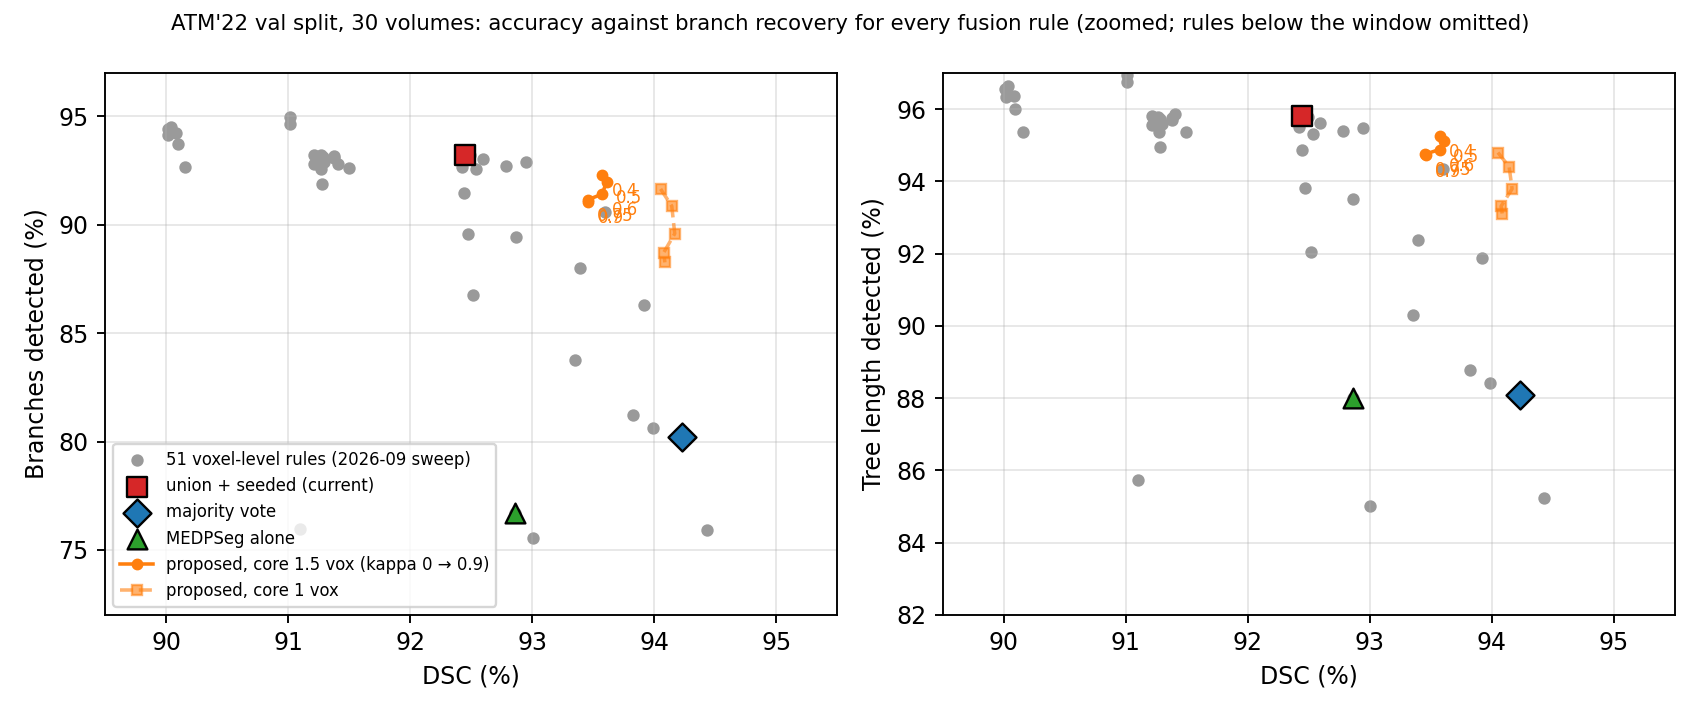
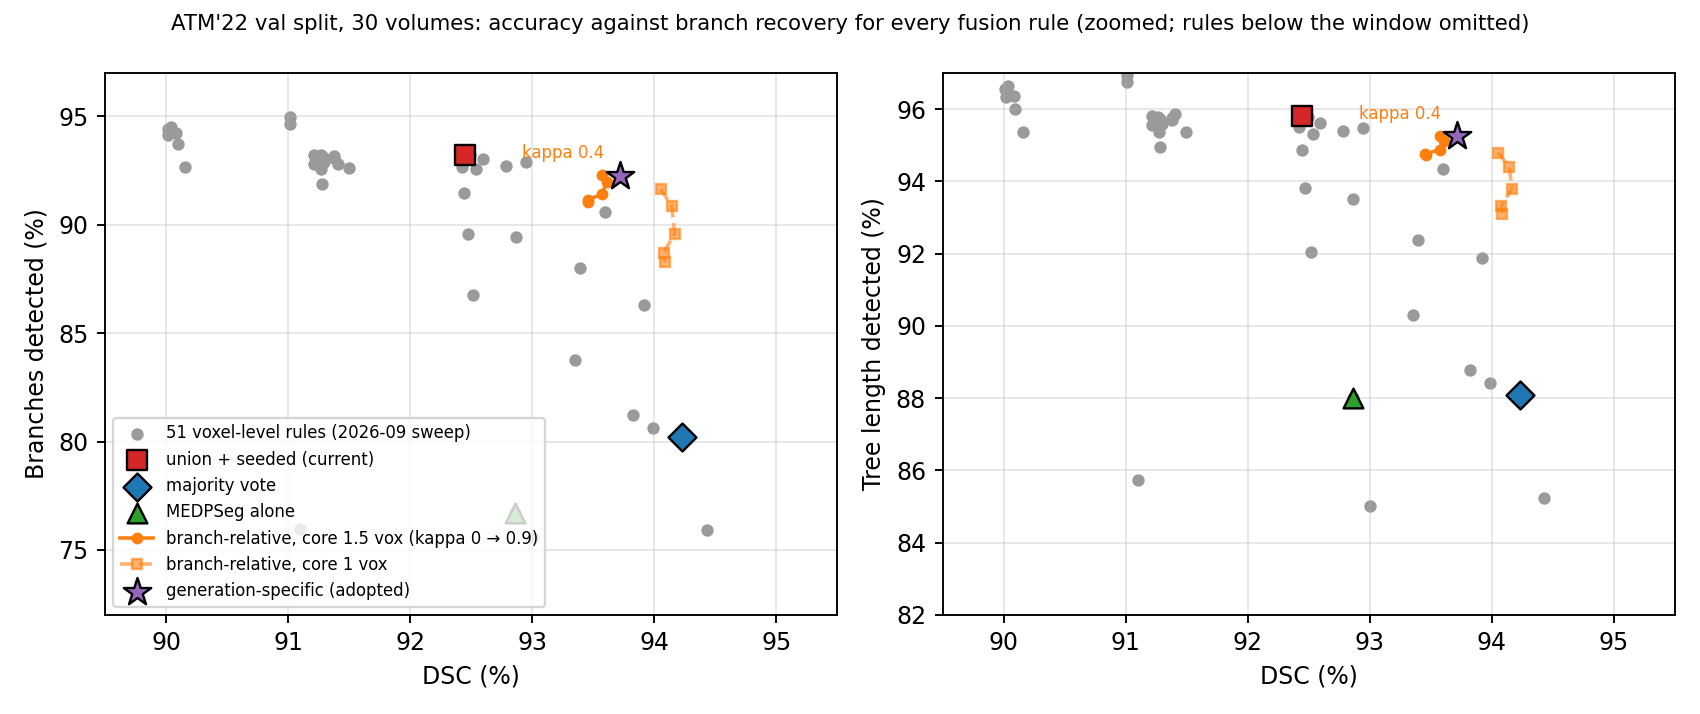
Figures: redraw uncertainty figures for the generation-specific rule
- Confidence panels (c,g) now show the generation-specific masks
  (adult Dice 93.3, infant 85.4); caption updated (removes 2/5 of FP).
- Frontier: adds the adopted rule as a star; the kappa curve is drawn
  with leaf pruning off (--prune-tau 0), matching the tables (kappa 0.4
  = 94.04/91.33); the old figure used tau 0.5.
- Architecture: "branch-relative consensus" box replaced by the
  generation-banded rule.

Changed region(s): [[0.0624, 0.5854, 0.3429, 0.8627], [0.3118, 0.1849, 0.3741, 0.3081], [0.8106, 0.1541, 0.8729, 0.2465]]

diff --git a/evaluation/fusion_uncertainty/fig_frontier.py b/evaluation/fusion_uncertainty/fig_frontier.py
@@ -1,10 +1,14 @@
 #!/usr/bin/env python
 """DSC against branch detection for every combination rule: the 51 voxel rules
-of the earlier sweep (grey) and the proposed fusion along its kappa curve
-(coloured), on one split. A rule above and to the right of another is better
+of the earlier sweep (grey), the branch-relative refinement along its kappa
+curve (orange) and, with --genspec, the adopted generation-specific rule
+(per-case CSV of ablation/generation_specific), on one split. A rule above and to the right of another is better
 on both axes.
 
-    python fig_frontier.py --split val --refine results/refine_val.csv --out fig_frontier_val.png
+    python fig_frontier.py --split test --refine results/refine_test.csv \
+        --genspec ablation/generation_specific/percase_test_B3_core.csv --out 07_frontier.pdf
+
+Leaf pruning is off by default (--prune-tau 0), as in the paper tables.
 """
 import argparse, os
 
@@ -21,8 +25,9 @@ def main():
     ap.add_argument("--split", required=True)
     ap.add_argument("--refine", required=True)
     ap.add_argument("--scheme", default="calibrated")
-    ap.add_argument("--prune-tau", type=float, default=0.5)
+    ap.add_argument("--prune-tau", type=float, default=0.0)
     ap.add_argument("--core-min-vox", type=float, default=1.5)
+    ap.add_argument("--genspec", help="per-case CSV of the generation-specific rule on this split")
     ap.add_argument("--out", required=True)
     a = ap.parse_args()
 
@@ -31,6 +36,7 @@ def main():
     new = pd.read_csv(a.refine)
     ng = new.groupby(["scheme", "prune_tau", "kappa", "core_min_vox"])[["DSC", "BND", "TLD", "Precision"]].mean().reset_index()
     base = ng[ng.scheme == "none"].iloc[0]
+    gs = pd.read_csv(a.genspec)[["DSC", "BND", "TLD", "Precision"]].mean() if a.genspec else None
 
     def curve(core):
         sel = ng[(ng.scheme == a.scheme) & (ng.prune_tau == a.prune_tau) & ((ng.core_min_vox == core) | (ng.kappa == 0))]
@@ -43,14 +49,17 @@ def main():
             if name in og.index:
                 ax.scatter(og.loc[name, "DSC"], og.loc[name, ykey], s=70, marker=mk, c=col, edgecolor="k", zorder=5,
                            label={"or_all3": "union + seeded (current)", "vote2of3": "majority vote", "solo_medpseg": "MEDPSeg alone"}[name])
-        for core, style, lab in ((a.core_min_vox, "-o", f"proposed, core {a.core_min_vox:g} vox (kappa 0 → 0.9)"),
-                                 (1.0, "--s", "proposed, core 1 vox")):
+        for core, style, lab in ((a.core_min_vox, "-o", f"branch-relative, core {a.core_min_vox:g} vox (kappa 0 → 0.9)"),
+                                 (1.0, "--s", "branch-relative, core 1 vox")):
             cv = curve(core)
             ax.plot(cv.DSC, cv[ykey], style, c="#ff7f0e", ms=4, zorder=6, label=lab, alpha=1 if style == "-o" else 0.6)
             if style == "-o":
                 for _, r in cv.iterrows():
-                    if r.kappa > 0:
-                        ax.annotate(f"{r.kappa:g}", (r.DSC, r[ykey]), textcoords="offset points", xytext=(4, -9), fontsize=7, color="#ff7f0e")
+                    if abs(r.kappa - 0.4) < 1e-9:
+                        ax.annotate("kappa 0.4", (r.DSC, r[ykey]), textcoords="offset points", xytext=(-34, 7), fontsize=7, color="#ff7f0e")
+        if gs is not None:
+            ax.scatter(gs.DSC, gs[ykey], s=150, marker="*", c="#9467bd", edgecolor="k", zorder=7,
+                       label="generation-specific (adopted)")
         ax.set_xlabel("DSC (%)"); ax.set_ylabel(ylabel); ax.grid(alpha=0.3)
         ax.set_xlim(89.5, 95.5); ax.set_ylim(72 if ykey == "BND" else 82, 97)
     axes[0].legend(fontsize=7, loc="lower left")

diff --git a/paper/airway_method_paper.tex b/paper/airway_method_paper.tex
@@ -331,10 +331,8 @@ measurably, and is off by default.
 Figure~\ref{fig:arch} is unchanged; the seven predictors behind it mark every
 fused voxel with one of 24 vote patterns, the pattern's precision on the
 validation split is the voxel's confidence, and the confidence is shown as it
-is, summarised per branch, and optionally used to trim the mask. The trimming
-block shows the earlier branch-relative rule. The adopted rule keeps the same
-inputs and protected core and replaces the threshold by one rule per
-generation band (Section~\ref{sec:confidence}).}
+is, summarised per branch, and optionally used to trim the mask with one rule
+per generation band of the branch tree (Section~\ref{sec:confidence}).}
 \label{fig:unc-arch}
 \end{figure}
 
@@ -822,10 +820,9 @@ coloured by the calibrated confidence, red where one model stands alone and
 green where all seven predictors agree. (b,\,f) The same surface coloured by
 the reference, blue where the voxel is airway and red where it is a false
 positive: the red of (b) sits where (a) is red or orange. (c,\,g) The mask
-after the earlier branch-relative trim ($\kappa=0.4$, Table~\ref{tab:ablation}),
-which the generation-specific rule replaced. (d,\,h) The reference. In the adult the union carries
-18.3 per cent false-positive voxels, mostly a thin shell on true branches, and
-the refinement removes a third of them; in the infant the reference is wider
+after the generation-specific refinement. (d,\,h) The reference. In the adult
+the union carries 18.3 per cent false-positive voxels, mostly a thin shell on
+true branches, and the refinement removes two fifths of them; in the infant the reference is wider
 than every member, the union is 99.2 per cent precise, and the refinement can
 only lose. Dice against the reference under each panel.}
 \label{fig:confidence}
@@ -985,11 +982,10 @@ Supported by three & 8\,220 & & 5.6 & 1\,550 & & 0.0 \\
 \caption{Accuracy against completeness for every fusion rule on the test
 split: DSC against branch detection (left) and tree length (right) for the
 51 voxel-level rules of the validation sweep (grey), the three reference
-strategies, and the earlier branch-relative trim as $\kappa$ runs from 0 (the
-union) to 0.9, with the protected core at 1.5 voxels (solid) and 1 voxel (dashed).
-Rules below the window are omitted. The adopted generation-specific rule
-lies at DSC 94.18 and branch detection 91.17, just right of and below
-the $\kappa=0.4$ point.}
+strategies, the earlier branch-relative trim as $\kappa$ runs from 0 (the
+union) to 0.9, with the protected core at 1.5 voxels (solid) and 1 voxel
+(dashed), and the adopted generation-specific rule (star). Rules below the
+window are omitted.}
 \label{fig:frontier}
 \end{figure}
 

diff --git a/evaluation/figures/fig_confidence_panels.py b/evaluation/figures/fig_confidence_panels.py
@@ -6,15 +6,17 @@
     seven predictors agree);
 (b) the same surface coloured by the reference: blue where the voxel is
     airway, red where it is a false positive;
-(c) the refined mask (branch-relative consensus, kappa 0.4), green as the
-    selected component is drawn elsewhere in the paper;
+(c) the refined mask (generation-specific consensus: G1-3 confidence >= 0.4,
+    G4-6 >= 5 of 7 predictors, G7+ confidence >= 0.2, 1-voxel core kept),
+    green as the selected component is drawn elsewhere in the paper;
 (d) the reference annotation, grey.
 Dice against the reference is printed under (a)/(b) and (c). Rendering is the
 same depth-shaded raycast as the other figures (airway_surface_render), on one
 shared crop and one isotropic grid per row.
 
 Reads the study cache (fusion_uncertainty_run/cache/<split>/<case>/volumes.npz)
-and the refined masks (fusion_uncertainty_run/masks/topofuse/<split>/).
+and the refined masks
+(fusion_uncertainty_run/ablation/generation_specific/masks/<split>/).
 
     AIRWAY_ROOT=/fileserver/external/quin/ege python fig_confidence_panels.py
 """
@@ -35,6 +37,7 @@ import common
 ROOT = os.environ.get("AIRWAY_ROOT", "/fileserver/external/quin/ege")
 STUDY = os.path.join(ROOT, "fusion_uncertainty_run")
 OUT = os.environ.get("FIG_OUT", os.path.join(ROOT, "paper", "figures", "08_confidence_panels"))
+REFINED = os.path.join(STUDY, "ablation", "generation_specific", "masks")
 CASES = [("test", "ATM_078", 0.5, "adult, ATM'22 test"), ("pediatric", "sub-0012_acc-0295", 0.3, "infant, 0.9 years")]
 MARGIN_MM = 4.0
 RAMP = LinearSegmentedColormap.from_list("conf", [(0, "#d62728"), (0.5, "#ffc800"), (1, "#2ca02c")])
@@ -93,7 +96,7 @@ def panels_for(split, cid, render_mm):
     table = common.pattern_table("val")
     conf = common.confidence_from_pattern(c["pattern"], "calibrated", table)
     M, gt = c["M"], c["gt"].astype(bool)
-    R = np.load(os.path.join(STUDY, "masks", "topofuse", split, f"ATM26_{cid}.npz"))["mask"].astype(bool)
+    R = np.load(os.path.join(REFINED, split, f"ATM26_{cid}.npz"))["mask"].astype(bool)
     spacing = np.asarray(c["spacing"], float)[::-1]           # (z,y,x) -> (x,y,z)
     M, gt, R, conf = to_lps(M), to_lps(gt), to_lps(R), to_lps(conf)
     sl = crop_box(M | gt, spacing)
@@ -131,7 +134,7 @@ def content_box(row, m=0.02):
 
 
 def main():
-    cache = OUT + "_panels.npz"
+    cache = OUT + "_genspec_panels.npz"
     if os.path.exists(cache):
         z = np.load(cache, allow_pickle=True)
         rows = [[z[f"p{r}{c}"] for c in range(4)] for r in range(len(CASES))]

diff --git a/evaluation/figures/fig_architecture_uncertainty.tex b/evaluation/figures/fig_architecture_uncertainty.tex
@@ -60,24 +60,23 @@
   {always produced};
 \node[note, left=2mm of pat, text width=14mm, align=right, text=conline] {\textbf{confidence}};
 
-% ---- row 3: branch confidence and the refinement
-\node[ref, text width=24mm] (bc) at ($(tab)+(18mm,-21mm)$)
-  {branch confidence\\[-1pt]\tiny mean along the centreline};
-\node[ref, text width=26mm] (rc) at ($(bc)+(32mm,0)$)
-  {branch-relative consensus\\[-1pt]\tiny keep voxel if $c \geq \kappa\, c_{\text{centreline}}$};
-\node[io, text width=14mm] (out) at ($(rc)+(25mm,0)$) {refined\\mask};
-\draw[fl] (bc) -- (rc); \draw[fl] (rc) -- (out);
-\node[note, below=1.0mm of rc, text width=40mm]
-  {core within $\max(0.5\,r,\,1.5$ vox$)$ always kept;\\$\kappa=0.4$ chosen on validation;\\optional, off for pediatric scans};
-\node[note, left=2mm of bc, text width=22mm, align=right, text=refline]
+% ---- row 3: the refinement, one rule per generation band of the branch tree
+\node[ref, text width=50mm] (rc) at ($(tree)+(0,-42mm)$)
+  {generation-banded consensus\\[1pt]
+   {\tiny\mbox{generations 1--3: keep if $c \geq 0.4$}}\\[-1pt]
+   {\tiny\mbox{generations 4--6: keep if $\geq$\,5 of 7 predictors vote}}\\[-1pt]
+   {\tiny\mbox{generation 7 onward: keep if $c \geq 0.2$}}};
+\node[io, text width=14mm] (out) at ($(rc)+(41mm,0)$) {refined\\mask};
+\draw[fl] (rc) -- (out);
+\node[note, below=1.0mm of rc, text width=48mm]
+  {1-voxel centreline core always kept, seeded component last;\\bands and rules chosen on validation;\\optional, off for pediatric scans};
+\node[note, left=2mm of rc, text width=22mm, align=right, text=refline]
   {\textbf{uncertainty-aware\\fusion}};
 
-% the tree enters from above through the gap between the table and the map;
-% the map feeds both the branch confidence and the consensus
+% the tree supplies each voxel's generation from above, through the gap
+% between the table and the map; the map supplies c and the vote count
 \coordinate (m1) at ($(map.south)+(-3mm,0)$);
-\coordinate (m2) at ($(map.east)+(4mm,0)$);
-\draw[fl] (tree.south) -- (tree.south |- bc.north);
-\draw[fl] (m1) -- (m1 |- bc.north);
-\draw[fl] (m2) -- (m2 |- rc.north);
+\draw[fl] (tree.south) -- (tree.south |- rc.north);
+\draw[fl] (m1) -- (m1 |- rc.north);
 \end{tikzpicture}
 \end{document}
